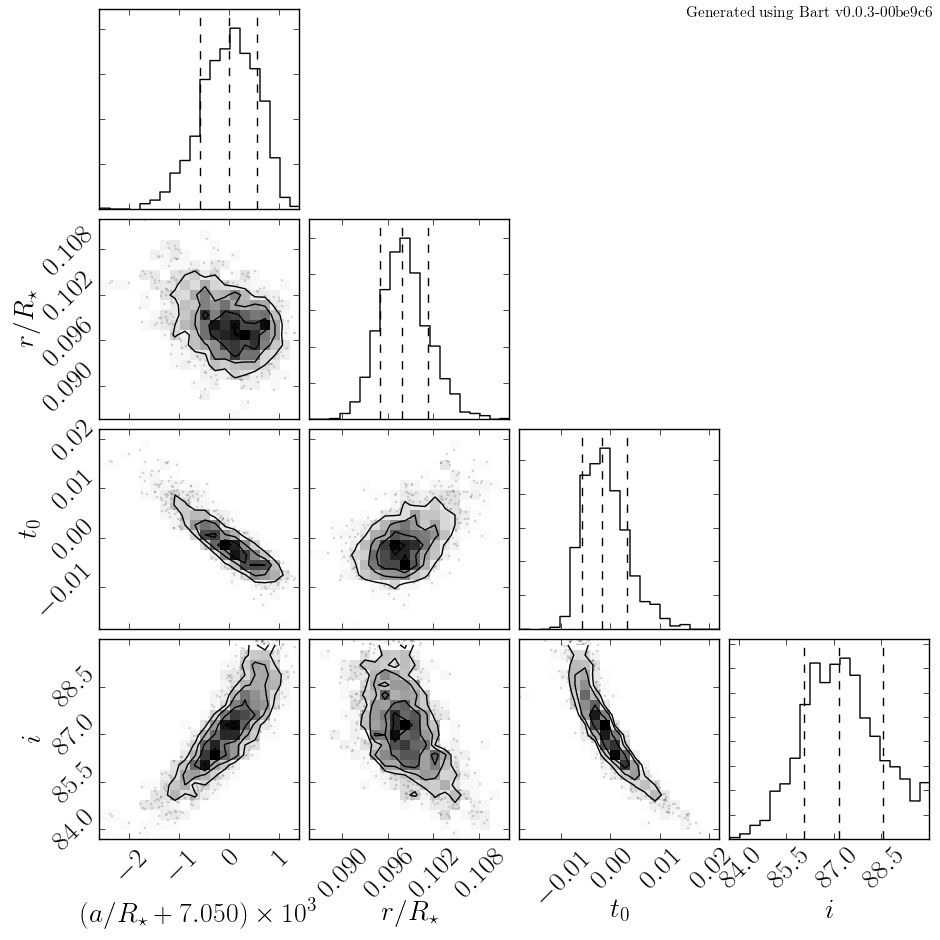
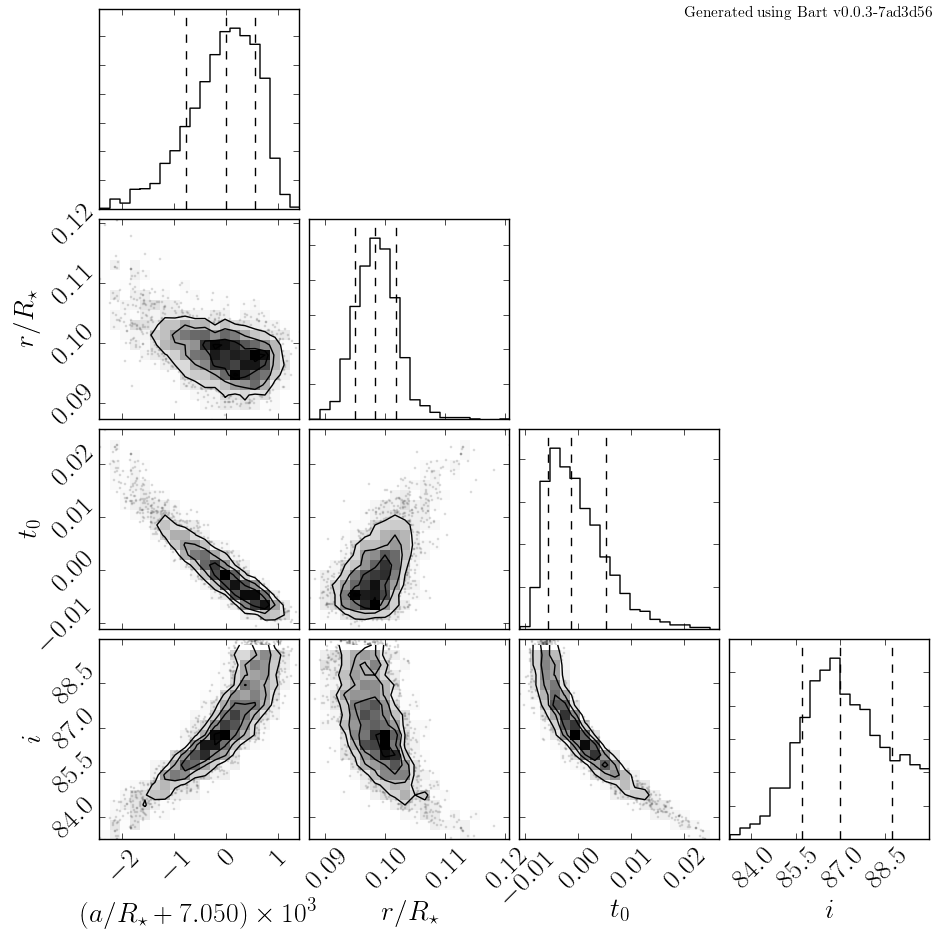
updated figure

diff --git a/examples/docs/model_building_2.py b/examples/docs/model_building_2.py
@@ -38,7 +38,7 @@ if __name__ == "__main__":
     kepler6.iobs += np.random.rand() - 0.5
 
     kepler6.run_mcmc(2000, thin=10)
-    results = kepler6.results(thin=1, burnin=30)
+    results = kepler6.results(burnin=30)
 
     mean_a = results.semimajors[0] / results.rstar
     results.corner_plot([
